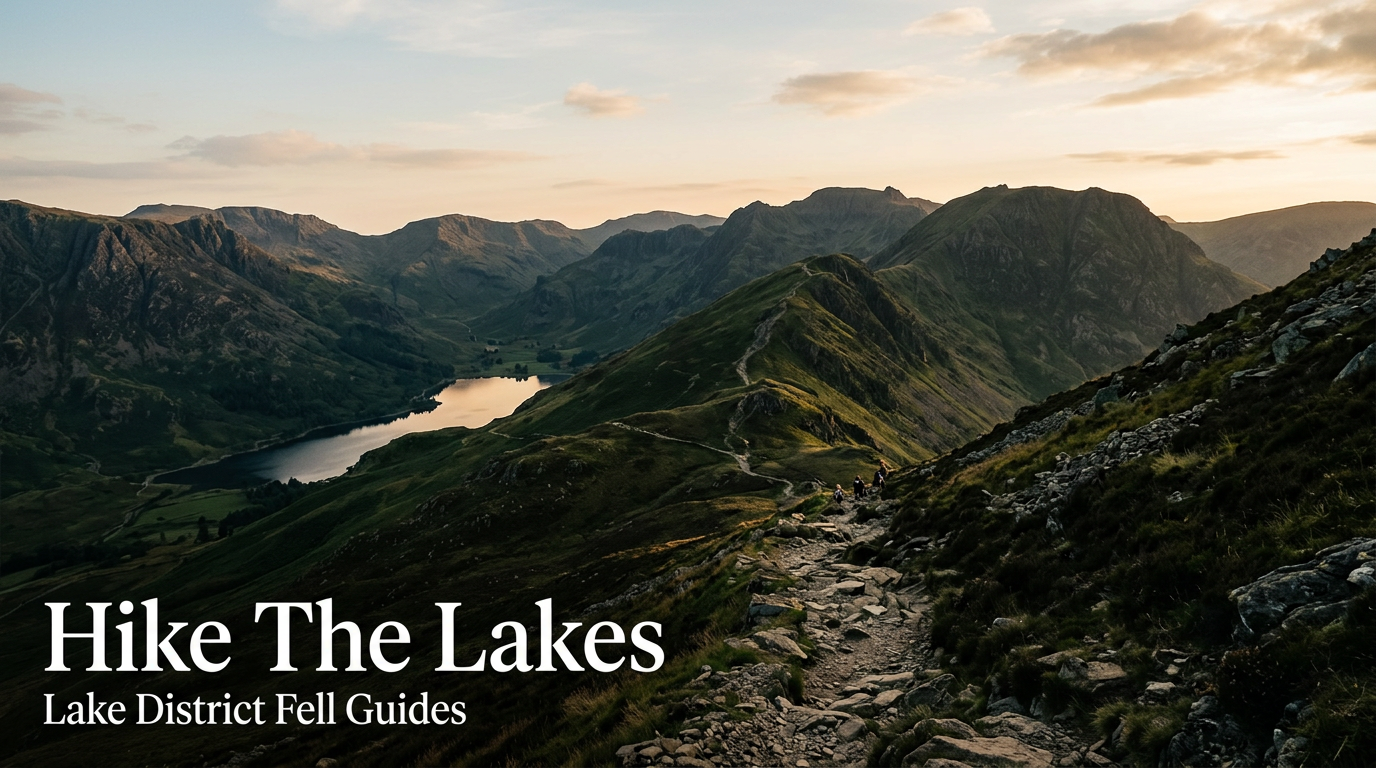
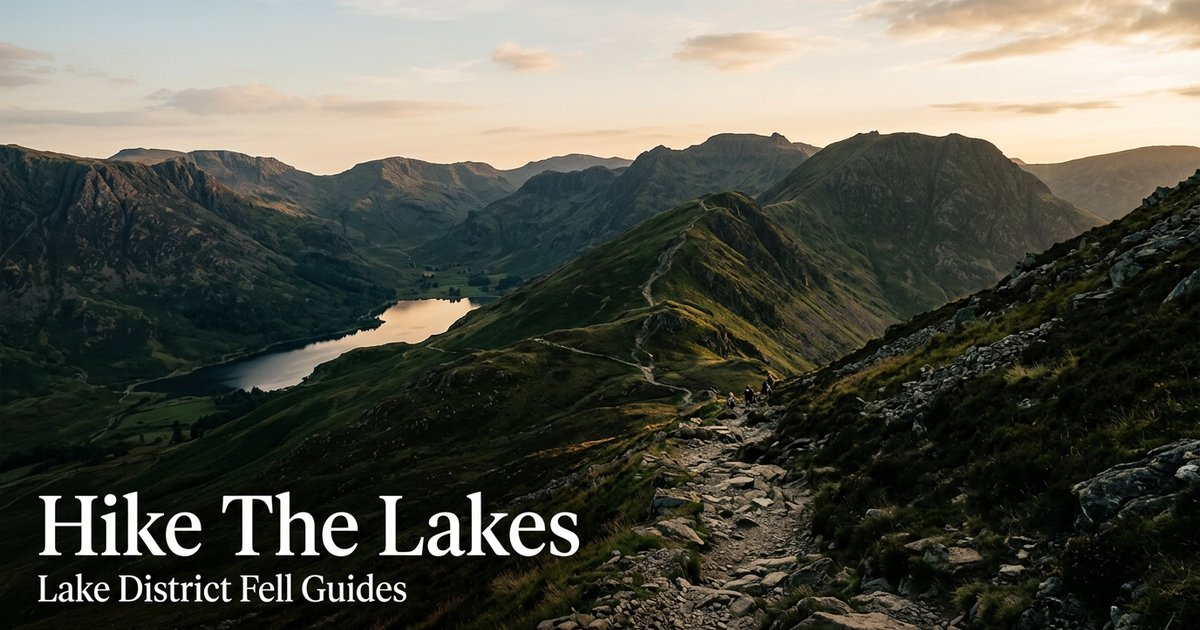
Share image: og-default.jpg is now a real JPEG at share-card size (1200 x 630, 149 KB; was a 1.7 MB PNG named .jpg); declared size updated

diff --git a/lib/metadata.ts b/lib/metadata.ts
@@ -3,11 +3,11 @@ import type { Metadata } from 'next';
 const BASE_URL = 'https://www.hikethelakes.com';
 const SITE_NAME = 'Hike The Lakes';
 
-// public/og-default.jpg (a PNG, 1376 x 768): the share image for pages without their own photo.
+// public/og-default.jpg (JPEG, 1200 x 630): the share image for pages without their own photo.
 const DEFAULT_IMAGE = {
   url: `${BASE_URL}/og-default.jpg`,
-  width: 1376,
-  height: 768,
+  width: 1200,
+  height: 630,
   alt: 'Hike The Lakes: Lake District fell guides',
 };
 

diff --git a/app/[locale]/layout.tsx b/app/[locale]/layout.tsx
@@ -64,8 +64,8 @@ export async function generateMetadata({ params }: { params: Promise<{ locale: s
       images: [
         {
           url: `${BASE_URL}/og-default.jpg`,
-          width: 1376,
-          height: 768,
+          width: 1200,
+          height: 630,
           alt: 'Hike The Lakes: Lake District fell guides',
         },
       ],
